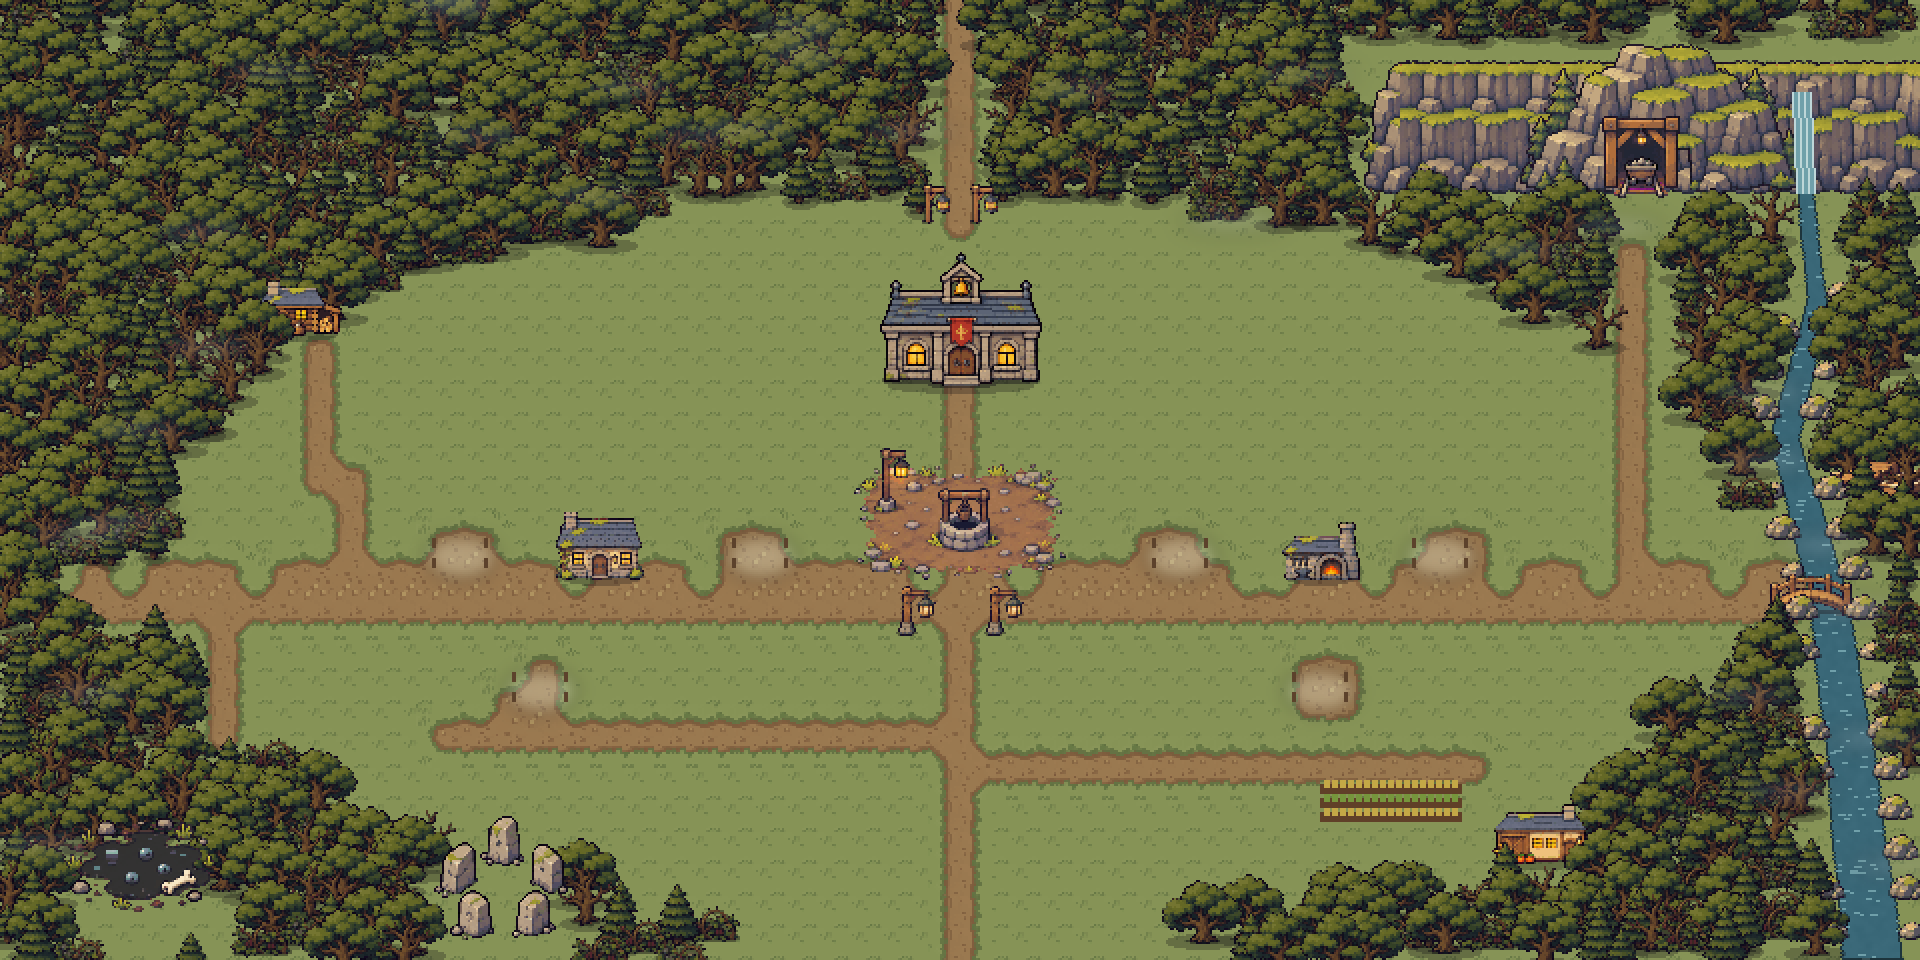
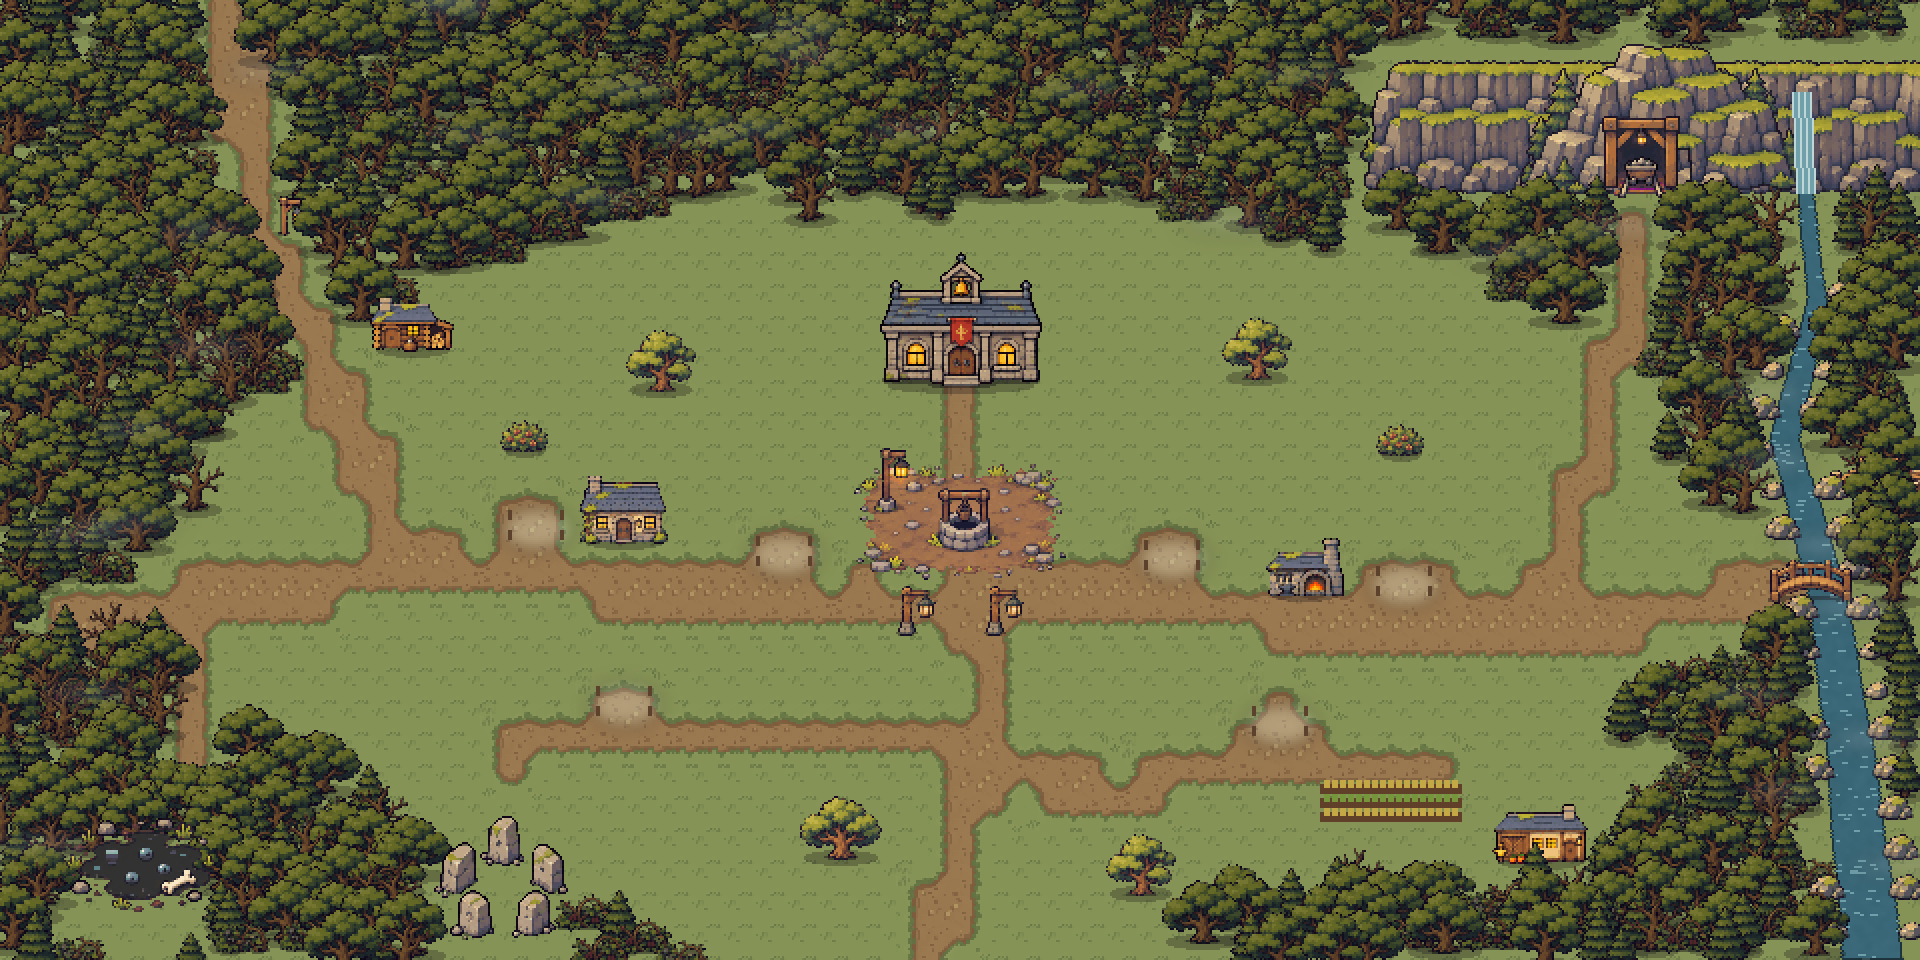
M2b art: forest road to the north-west and an organic town (D-047 amended)
Morgan wanted the forest entrance off to the left, not above the Hall, and a
more organic town. Curved streets as polylines, uneven house spacing and
set-backs, trees in town, a more ragged town edge.

Claude-Session: https://claude.ai/code/session_01Dr9VTq7XGS6mJUnvAqsTof

diff --git a/art/town_wide.py b/art/town_wide.py
@@ -36,7 +36,7 @@ def river_dist(x, y):
 def in_town(x, y, grown):
     k = 1.08 if grown else 1.0
     nx, ny = (x - CX) / (400 * k), (y - 290) / (190 * k)
-    return nx * nx + ny * ny + 0.05 * np.sin(x / 17.0) * np.cos(y / 13.0) < 1
+    return nx * nx + ny * ny + 0.12 * np.sin(x / 31.0) * np.cos(y / 19.0) + 0.06 * np.sin(x / 11.0 + y / 7.0) < 1
 
 
 def south_way(x, y):
@@ -47,20 +47,32 @@ def south_way(x, y):
 def build(state):
     R = random.Random(7)
     grown = state == "grown"
+    hs = lambda x: HY + 10 * np.sin((x - CX) / 130.0) - 6 * np.sin((x - CX) / 57.0)       # High Street centre line
+    cs = lambda y: CX + 16 * np.sin((y - HY) / 40.0) * min(1.0, (y - HY) / 30.0)          # cross street centre line
     roads = [
-        lambda x, y, j: abs(y - HY) < 8 + j and 30 < x < 900,                               # High Street
-        lambda x, y, j: abs(x - CX) < 7 + j and y > HY,                                     # cross street, south out
-        lambda x, y, j: abs(x - CX) < 5 + j * 0.4 and 190 < y < 240,                        # Hall walkway
-        lambda x, y, j: abs(x - CX) < 4 + j and y < 120,                                    # north road into the Skarthorn
-        lambda x, y, j: abs(x - (150 + (y - 170) * 0.25)) < 4 + j and 170 < y < HY,         # lane to the woodcutter
-        lambda x, y, j: abs(x - 820) < 4 + j and 112 < y < HY,                              # mine track
-        lambda x, y, j: abs(y - 372) < 4 + j and 220 < x < CX or abs(y - 380) < 4 + j and CX < x < 740,  # back lanes
-        lambda x, y, j: abs(x - 110) < 4 + j and HY < y < 380,                              # lane to the forager
+        ([(x, hs(x)) for x in range(30, 920, 15)], 8),                                      # High Street, gently curving
+        ([(cs(y), y) for y in range(HY, 500, 12)], 7),                                      # cross street, south out
+        ([(CX, 190), (CX, 240)], 5),                                                        # Hall walkway
+        ([(205, hs(205)), (192, 250), (170, 205), (152, 165), (132, 115), (120, 60), (112, -6)], 7),  # north-west road into the Skarthorn
+        ([(770, hs(770)), (787, 255), (800, 205), (812, 160), (820, 112)], 4),              # mine track
+        ([(250, 376), (320, 364), (400, 372), (cs(372), 372)], 4),                          # back lanes
+        ([(cs(386), 386), (560, 394), (640, 382), (735, 392)], 4),
+        ([(92, hs(92)), (100, 342), (94, 388)], 4),                                         # lane to the forager
     ]
-    plots = [] if grown else [(380, 278), (590, 278), (270, 345), (660, 345), (230, 278), (720, 278)]
-    plot_shapes = [(lambda px, py: (lambda x, y, j: ((x - px) / 15) ** 2 + ((y - py) / 9) ** 2 < 1 + j * 0.03))(px, py)
-                   for px, py in plots]
-    dirt = sb.mask(W, H, roads + plot_shapes)
+    plots = [] if grown else [(268, hs(268) - 22), (392, hs(392) - 22), (586, hs(586) - 22), (702, hs(702) - 22),
+                              (312, 352), (640, 362)]
+    Y, X = np.mgrid[0:H, 0:W].astype(float)
+    J = sb.jag(X, Y)
+    dirt = np.zeros((H, W), bool)
+    for pts, half in roads:
+        d = np.full((H, W), 1e9)
+        for (x0, y0), (x1, y1) in zip(pts, pts[1:]):
+            dx, dy = x1 - x0, y1 - y0
+            t = np.clip(((X - x0) * dx + (Y - y0) * dy) / (dx * dx + dy * dy), 0, 1)
+            d = np.minimum(d, np.hypot(X - x0 - t * dx, Y - y0 - t * dy))
+        dirt |= d < half + J
+    for px, py in plots:
+        dirt |= ((X - px) / 15) ** 2 + ((Y - py) / 9) ** 2 < 1 + J * 0.03
     img = wang_ground(W, H, dirt)
     wm = np.zeros((H, W), bool)
     for y in range(80, H):
@@ -96,12 +108,12 @@ def build(state):
     for i in range(10):
         fd.line((896 + i, 46, 898 + i, 96), fill=(112, 160, 170, 255) if i % 3 else (190, 214, 216, 255))
     img.alpha_composite(fall)
-    # Hall, square, and the lantern gate where the north road enters the Skarthorn
+    # Hall and square; the lantern gate where the north-west road enters the Skarthorn
     add(piece("hall", 2 if grown else 0), CX, 194)
     sq = piece("square", 2 if grown else 0)
     img.alpha_composite(sq, (CX - sq.width // 2, 290 - sq.height))
-    for x in (CX - 12, CX + 12):
-        add(piece("generic", 33), x, 112, False)
+    for x in (120, 146):
+        add(piece("generic", 33), x, 118, False)                                            # lantern gate, north-west road
 
     def home(p, x, by, flip=False):
         add(p, x, by)
@@ -112,17 +124,19 @@ def build(state):
         add(piece("generic", R.choice([8, 9, 10, 13, 14])), x + s * (p.width // 2 + 14), by - 10, False)
         add(piece("generic", 23), x - s * 8, by + 6, False)
 
-    # High Street, both sides of the square
+    # High Street, both sides of the square: uneven spacing and set-backs, a few on the south side facing it
+    def street(k, d, x, back=0, flip=None, south=False):
+        by = hs(x) + (46 if south else -10) - back
+        home(piece(k, d), x, by, R.random() < 0.5 if flip is None else flip)
     if grown:
-        home(piece("generic", 0), 170, 290, True); home(piece("generic", 3), 230, 290)
-        home(piece("generic", 1), 300, 290); home(piece("buildings", 11), 380, 290)
-        home(piece("generic", 2), 590, 290); home(piece("generic", 4), 660, 290)
-        home(piece("buildings", 17), 730, 290)
+        street("generic", 0, 162, 4); street("generic", 3, 236, 0); street("generic", 1, 312, 9)
+        street("buildings", 11, 388, 2); street("generic", 2, 584, 6); street("generic", 4, 652, 0)
+        street("buildings", 17, 732, 5); street("generic", 5, 200, 0, south=True); street("generic", 1, 690, 0, south=True)
     else:
-        home(piece("generic", 0), 300, 290, True)
-        add(piece("buildings", 9), 660, 290)
+        street("generic", 0, 312, 9, True)
+        add(piece("buildings", 9), 652, hs(652) - 10)
     # resource buildings on their own sites (D-043)
-    add(piece("buildings", 2 if grown else 0), 150, 168)                                   # woodcutter, forest edge
+    add(piece("buildings", 2 if grown else 0), 206, 176)                                   # woodcutter, by the north-west road
     add(piece("buildings", 5 if grown else 3), 770, 432)                                   # farm, south-east
     fields = Image.new("RGBA", (W, H)); fd = ImageDraw.Draw(fields)
     for r in range(6 if grown else 3):
@@ -132,22 +146,22 @@ def build(state):
             fd.rectangle((x, y - 2, x + 2, y + 1), fill=(118, 150, 60, 255) if r % 2 else (196, 168, 70, 255))
     img.alpha_composite(fields)
     if grown:
-        add(piece("generic", 10), 190, 174, False); add(piece("generic", 6), 112, 176, False)
+        add(piece("generic", 10), 236, 180, False); add(piece("generic", 6), 236, 156, False)
         add(piece("buildings", 14), 860, 220)                                               # storehouse by the river
         add(piece("buildings", 8), 110, 400); add(piece("generic", 12), 146, 404, False)    # forager, west woods
-        home(piece("generic", 5), 300, 362); home(piece("generic", 1), 600, 368)
-        home(piece("generic", 3), 380, 362, True)
+        home(piece("generic", 3), 302, 356, True); home(piece("generic", 2), 386, 362)
+        home(piece("generic", 0), 604, 384)
         for x in (660, 690, 720):
             add(piece("generic", 18), x, 440, False)
         for x, by in [(820, 380), (830, 330), (800, 350)]:
             add(piece("props", 12), x, by)                                                  # orchard
-        for x in (200, 320, 640, 760):
-            add(piece("props", 18), x, HY - 4, False)
+        for x in (200, 340, 620, 770):
+            add(piece("props", 18), x, hs(x) - 4, False)
         add(piece("generic", 25), CX + 18, HY + 22, False); add(piece("generic", 26), CX - 30, HY + 24, False)
         add(piece("props", 24), 400, 210, False); add(piece("props", 24), 560, 210, False)
     for x in (CX - 22, CX + 22):
         add(piece("props", 18), x, HY + 18, False)
-    add(piece("props", 29), 905, HY + 8, False)                                             # High Street bridge
+    add(piece("props", 29), 905, hs(905) + 8, False)                                             # High Street bridge
     add(piece("props", 30), 940, 250, False)                                                # jetty, far bank
     for y in range(130, H, 20):
         d_x = [x for x in range(820, W) if wm[y, x]]
@@ -155,6 +169,9 @@ def build(state):
             add(piece("props", R.choice([16, 17])), min(d_x) - 6, y, False)
         if d_x and R.random() < 0.6:
             add(piece("props", R.choice([16, 17])), max(d_x) + 6, y, False)
+    spots = [(330, 196), (628, 190), (262, 226), (700, 228), (420, 430), (570, 448), (352, 446), (150, 250), (842, 268)]
+    for x, by in spots[:9 if grown else 6]:
+        add(piece("props", R.choice([0, 1, 2, 12])), x, by)                                  # trees and bushes left standing in town
     add(piece("sites", 0), 70, 456, False)                                                  # tar pit, west
     add(piece("sites", 3), 250, 470, False)                                                 # standing stones
     # the Skarthorn along the north and the Tangle round the sides; the mountain and the road out stay clear

diff --git a/docs/DECISIONS.md b/docs/DECISIONS.md
@@ -318,6 +318,6 @@ All entries below were chosen by Morgan in the planning workshop of 2026-11-09 u
 
 ## D-047 The town starts open and fills in as it grows
 
-- **Status:** Accepted (2026-11-14) by Morgan in the `layout1` form. Amended 2026-11-15 by Morgan in chat (the wide map, the north forest, the mine upper right, the open south).
-- **Decision:** The town map is wide and scrolls left and right, opening on the Hall (60 × 30 tiles in `art/town_wide.py`). The Skarthorn forest runs along the north, and the north road enters it through a lantern gate behind the Hall. The mountain and the mine sit in the upper right, with a track down to the High Street. The Hall sits top centre with a walkway down to the square. The High Street runs across, and a cross street runs south and leaves the map through an open south edge with no forest on it: the road in and out (D-043). The stream falls from the mountain beside the mine and runs down the east side, widening into a river, with a bridge and a jetty. The woodcutter is to the west and the farm to the south-east, with plots through the town, and the Tangle all round with the special sites in clearings. On day one the town looks open: buildings on grass. Each building gains its surroundings (garden, fence, washing line, woodpile, flower boxes, orchard) as it is built and upgraded, so the fully grown town looks like the dense concept. The generic assets (filler cottages, garden, fence, street and mood pieces) are kept as cleaned.
-- **Why:** Morgan chose "Start open (B) and fill in towards dense (A) as you build and upgrade" over dense from the start or open all the way. The town visibly filling in rewards building and upgrading, and the open early town keeps plots easy to find on a phone. The amendment: Morgan, 2026-11-15, "It's supposed to have the forest north with the mine in the upper right and be scrollable from left to right with the bottom open to having a way out"; the first version had dropped the scroll and the north road, which lived only in D-041 (Proposed). River placement left to Claude ("Do whatever you think best for the river ... same vibe").
+- **Status:** Accepted (2026-11-14) by Morgan in the `layout1` form. Amended 2026-11-15 by Morgan in chat (the wide map, the north forest, the mine upper right, the open south; then the forest road to the north-west and an organic town).
+- **Decision:** The town map is wide and scrolls left and right, opening on the Hall (60 × 30 tiles in `art/town_wide.py`). The Skarthorn forest runs along the north, unbroken behind the Hall; the road into it leaves the town to the north-west, past the woodcutter, through a lantern gate. The town is organic: the streets curve, houses sit at uneven spacing and set-backs (some on the south side of the High Street), and trees and bushes stand inside the town. The mountain and the mine sit in the upper right, with a track down to the High Street. The Hall sits top centre with a walkway down to the square. The High Street runs across, and a cross street runs south and leaves the map through an open south edge with no forest on it: the road in and out (D-043). The stream falls from the mountain beside the mine and runs down the east side, widening into a river, with a bridge and a jetty. The woodcutter is to the west and the farm to the south-east, with plots through the town, and the Tangle all round with the special sites in clearings. On day one the town looks open: buildings on grass. Each building gains its surroundings (garden, fence, washing line, woodpile, flower boxes, orchard) as it is built and upgraded, so the fully grown town looks like the dense concept. The generic assets (filler cottages, garden, fence, street and mood pieces) are kept as cleaned.
+- **Why:** Morgan chose "Start open (B) and fill in towards dense (A) as you build and upgrade" over dense from the start or open all the way. The town visibly filling in rewards building and upgrading, and the open early town keeps plots easy to find on a phone. The amendment: Morgan, 2026-11-15, "It's supposed to have the forest north with the mine in the upper right and be scrollable from left to right with the bottom open to having a way out"; the first version had dropped the scroll and the north road, which lived only in D-041 (Proposed). River placement left to Claude ("Do whatever you think best for the river ... same vibe"). Then: "i don't want the forest entrance straight above the town I wanted it off to the left somewhere. I also want the town to feel more organic".

diff --git a/docs/HANDOFF.md b/docs/HANDOFF.md
@@ -20,7 +20,7 @@ M2 re-planned on 2026-11-14 (D-035 to D-038; PR #13, which also synced AI-Master
 
 ## Just done
 
-- 2026-11-15 M2b PixelLab (cloud session, branch `claude/vibrant-davinci-m5m64c`, cut from `m2b-art-workshop`): token saved as a network secret on the "Network" environment (proxy-injected for `api.pixellab.ai`; use the token from PixelLab's "Claude Code" option, not "Claude web"). Calls go over HTTPS JSON-RPC with a placeholder bearer; no `mcp__pixellab__*` tools needed. Trial: 40 generations, 39 left. Test 1 (grass to dirt tileset) rendered on the town map: `art/gpt/_town_compare_pl.png`; roads blend, diagonal lane stair-steps, grass paler than the anchor. No PixelLab skill in the catalog; community ones not installed. Then Morgan flagged the lost layout vision; D-047 amended (wide left-right map, Skarthorn north, mine upper right, open south) and rebuilt as `art/town_wide.py` (`art/gpt/_town_wide_*.png`); LESSONS entry added. PixelLab working guide: `docs/workshop/pixellab-guide.md` (read before any PixelLab call). Waiting on Morgan: does the wide map match, and 1 generation for richer grass chained to the road tiles?
+- 2026-11-15 M2b PixelLab (cloud session, branch `claude/vibrant-davinci-m5m64c`, cut from `m2b-art-workshop`): token saved as a network secret on the "Network" environment (proxy-injected for `api.pixellab.ai`; use the token from PixelLab's "Claude Code" option, not "Claude web"). Calls go over HTTPS JSON-RPC with a placeholder bearer; no `mcp__pixellab__*` tools needed. Trial: 40 generations, 39 left. Test 1 (grass to dirt tileset) rendered on the town map: `art/gpt/_town_compare_pl.png`; roads blend, diagonal lane stair-steps, grass paler than the anchor. No PixelLab skill in the catalog; community ones not installed. Then Morgan flagged the lost layout vision; D-047 amended (wide left-right map, Skarthorn north, mine upper right, open south) and rebuilt as `art/town_wide.py` (`art/gpt/_town_wide_*.png`); LESSONS entry added. PixelLab working guide: `docs/workshop/pixellab-guide.md` (read before any PixelLab call). Second pass: forest road moved to the north-west, town made organic (curved streets, uneven houses, trees in town). Waiting on Morgan: does the wide map match, and 1 generation for richer grass chained to the road tiles?
 - 2026-11-14 M2b art: the town map from the ChatGPT pieces is "not quite there yet" (Morgan); Morgan chose PixelLab and a cloud session. The art workspace moved into `art/` (outputs pixel-identical to the PC copies), `.mcp.json` added (token from `PIXELLAB_API_TOKEN`, never in the repo).
 - 2026-11-14 Morgan, starting the M2a test town: "it needs to be clearer who is pinned and who isnt" (People tab shows only " · Pinned" at the end of a row, `apps/web/src/ui/PeopleTab.tsx:110`); "There also isn't really anything to actually do at this point so it's kind of boring. There is nothing I can actively just do. See the game dragonscape for reference to like always having something to do". The second touches D-025 (no Collect tap) and the Avoid list item "any reward for tapping" (`docs/UI_STYLE.md:74`): a direction question, asked in chat.
 - 2026-11-14 Morgan chose a planning round on "always something to do" before more game steps, and will run the M2b art workshop themself in a desktop session ("so it can potentially use the artcraft apps"). Round 1 (`play1`): https://claude.ai/artifact/HdpkiWhhZkeEPV2FLgAFKg.

diff --git a/docs/workshop/m2b-dragonscape.md b/docs/workshop/m2b-dragonscape.md
@@ -178,3 +178,5 @@ Town map built from the cleaned pieces (`gpt_town.py`, 30 × 30 tiles), two stat
 ## Wide town map (2026-11-15)
 
 Morgan: "we lost the vision on the town layout a bit. It's supposed to have the forest north with the mine in the upper right and be scrollable from left to right with the bottom open to having a way out". Approved the fix (D-047 amended) and left the river to Claude. `art/town_wide.py` builds a 60 × 30-tile map (960 × 480 px) on the PixelLab road tiles: Skarthorn along the north with a lantern-gated north road, mountain and mine upper right, a waterfall beside the mine feeding the east river, the High Street across, the cross street out through a clear south edge, woodcutter north-west, forager and tar pit west, farm south-east. Outputs `art/gpt/_town_wide_day1.png`, `_town_wide_grown.png`, `_town_wide_phone.png` (the opening view at 1.5x on a 412 px phone). Not checked: the mine's track meets the cliff below the entrance, not at it; a thin grass strip remains above the west end of the cliffs.
+
+Second pass, same day. Morgan: "i don't want the forest entrance straight above the town I wanted it off to the left somewhere. I also want the town to feel more organic". The forest road now leaves the High Street to the north-west, past the woodcutter, through a lantern gate; the forest is unbroken behind the Hall. Streets curve (High Street and cross street follow sine curves; lanes are polylines), houses sit at uneven spacing and set-backs with two on the south side of the High Street, trees and bushes stand in town, and the town's edge is more ragged. Communication: Claude follows `docs/workshop/pixellab-guide.md` section 4 (a brief before each call, results in place).
